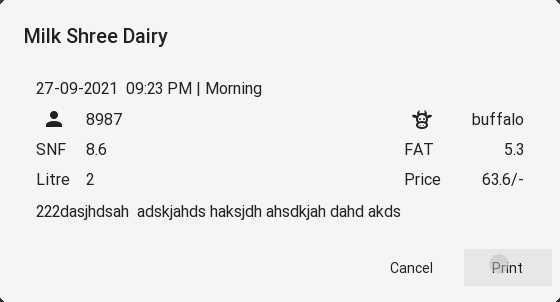
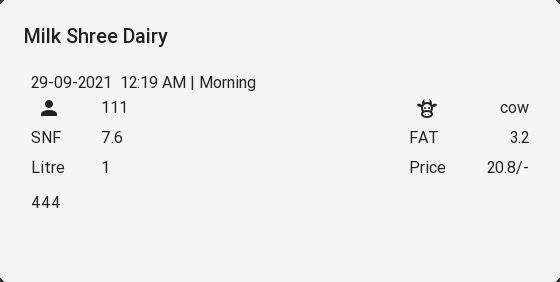
debug

diff --git a/main.py b/main.py
@@ -119,6 +119,7 @@ ScreenManager:
 
 	MDTextField:
 		id:login_email
+		text:"admin"
 		size_hint : (0.7,0.1)
 		hint_text: 'User Name'
 		helper_text:'Required'
@@ -520,10 +521,10 @@ ScreenManager:
 <Content>
 	name: 'printContent'
 	orientation: "vertical"
-	spacing: "12dp"
-	padding: "12dp"
+	spacing: "7dp"
+	padding: "7dp"
 	size_hint_y: None
-	height: "170dp"
+	height: "150dp"
 	
 <NavBar>:
 	name: 'application'
@@ -630,7 +631,9 @@ class MilkApp(MDApp):
 		
 	def debug(self):
 		self.login_check= True
-		self.bill_history("8987")
+		self.dataTablePlot("111")
+		pass
+		
 		
 
 	def get_morning(self):
@@ -737,10 +740,10 @@ class MilkApp(MDApp):
 		self.badgespage.get_screen("application").ids.screen_manager.get_screen("historypage").ids.historypageCustomer.title = mobile
 		self.badgespage.get_screen("application").ids.screen_manager.get_screen("historypage").ids.historypageCustomer1.text = self.allUser[mobile]['UserName']
 		self.dataTablePlot(mobile)
-		self.redirect_page("historypage")
 	
 	def dataTablePlot(self, mobile):
 		self.temp_user_show = mobile
+		self.redirect_page("historypage")
 		self.get_history()
 		self.badgespage.get_screen("application").ids.screen_manager.get_screen("historypage").ids.historypageDataTable.clear_widgets()
 		data= []
@@ -748,6 +751,7 @@ class MilkApp(MDApp):
 		for f in copy.deepcopy(self.history[mobile]):
 			historical_data[f]["key"] = "[size=0]"+f+"[/size]"
 			data.append(tuple(historical_data[f].values()))
+		print(data)
 		data_tables = MDDataTable(
 			column_data=[
 				("Date.", dp(20)),
@@ -1003,21 +1007,21 @@ class MilkApp(MDApp):
 		self.dataForPrint = data
 		aa = Content()
 		layout = MDGridLayout(cols = 4, row_force_default = True,row_default_height = 30)
-		aa.add_widget(MDLabel(text =data['date'].split("\n" )[0]+data['date'].split("\n" )[1]+" | "+data['sift'],size_hint_y= 0.1))
+		aa.add_widget(MDLabel(text =data['date'].split("\n" )[0]+data['date'].split("\n" )[1]+" | "+data['sift'],size_hint_y= 0.07))
 		layout.add_widget(MDIcon(icon='account',halign="right",size_hint_x = None, width = 30))
 		layout.add_widget(MDLabel(text =Customer, size_hint_x = None,  width = 50))
 		layout.add_widget(MDIcon(icon='cow',halign="right",size_hint_x = None, width = 30))
 		layout.add_widget(MDLabel(text=data['type'], halign="right", size_hint_x = None,  width = 70))
-		layout.add_widget(MDLabel(text ="SNF", size_hint_x = None,  width = 50))
+		layout.add_widget(MDLabel(text ="SNF", size_hint_x = None,  width = 70))
 		layout.add_widget(MDLabel(text =data['snf']))
 		layout.add_widget(MDLabel(text ="FAT", size_hint_x = None,  width = 50))
 		layout.add_widget(MDLabel(text =data['cnf'], halign="right", size_hint_x = None,  width = 70))
-		layout.add_widget(MDLabel(text ="Litre", size_hint_x = None,  width = 50))
+		layout.add_widget(MDLabel(text ="Litre", size_hint_x = None,  width = 70))
 		layout.add_widget(MDLabel(text =data['weight']))
 		layout.add_widget(MDLabel(text ="Price", size_hint_x = None,  width = 50))
 		layout.add_widget(MDLabel(text =data['price']+"/-", halign="right", size_hint_x = None,  width = 70))
 		aa.add_widget(layout)
-		aa.add_widget(MDLabel(text =data['remark']+"dasjhdsah  adskjahds haksjdh ahsdkjah dahd akds",size_hint_y= 0.5, valign="middle"))
+		aa.add_widget(MDLabel(text =data['remark'],size_hint_y= 0.3, valign="middle"))
 		self.printBox =aa 
 		self.dialog = MDDialog(
 			title="Milk Shree Dairy",
@@ -1037,6 +1041,8 @@ class MilkApp(MDApp):
 	def get_print(self, obj):
 		# print("PrintSlip")
 		timestr = datetime.today().strftime("%Y%m%d_%H%M%S")
+		self.close_popup_cancel_dialog(obj)
+		self.dialog.ids.button_box.clear_widgets()
 		self.dialog.export_to_png("export.png".format(timestr))
 		os.system("lp -o fit-to-page -o orientation-requested=3 -o media=Custom.58x210mm export.png")
 
